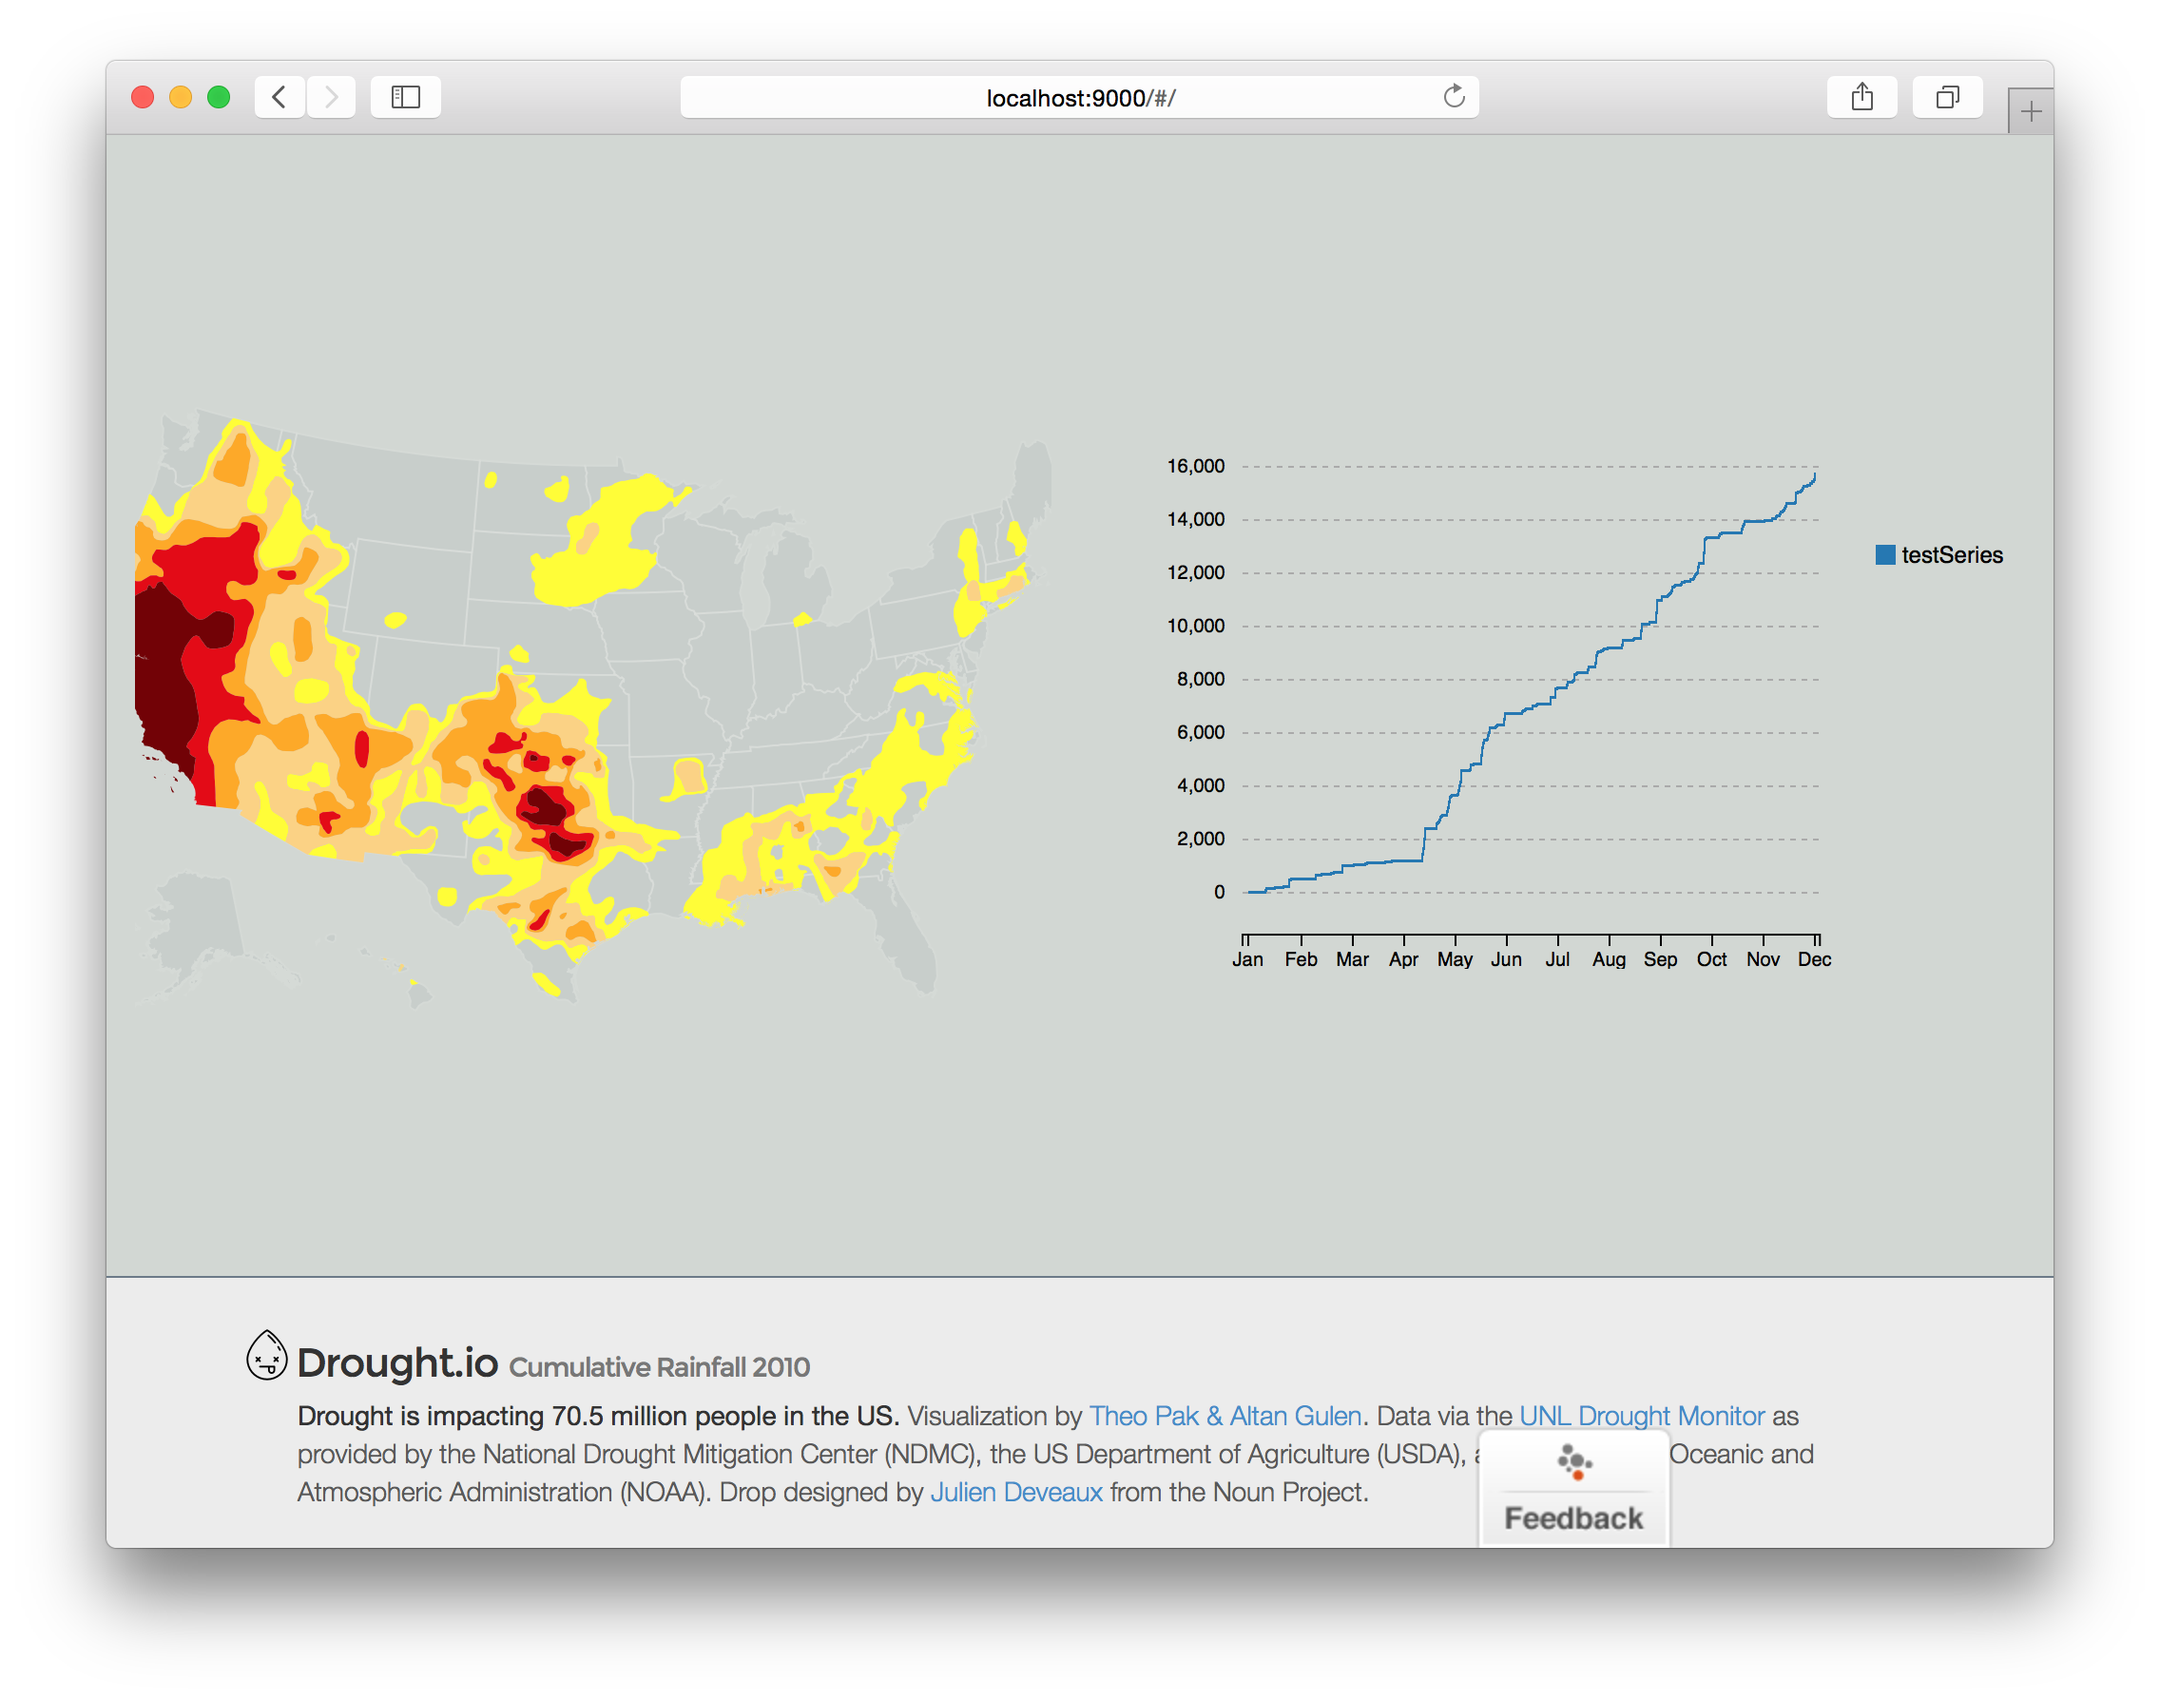
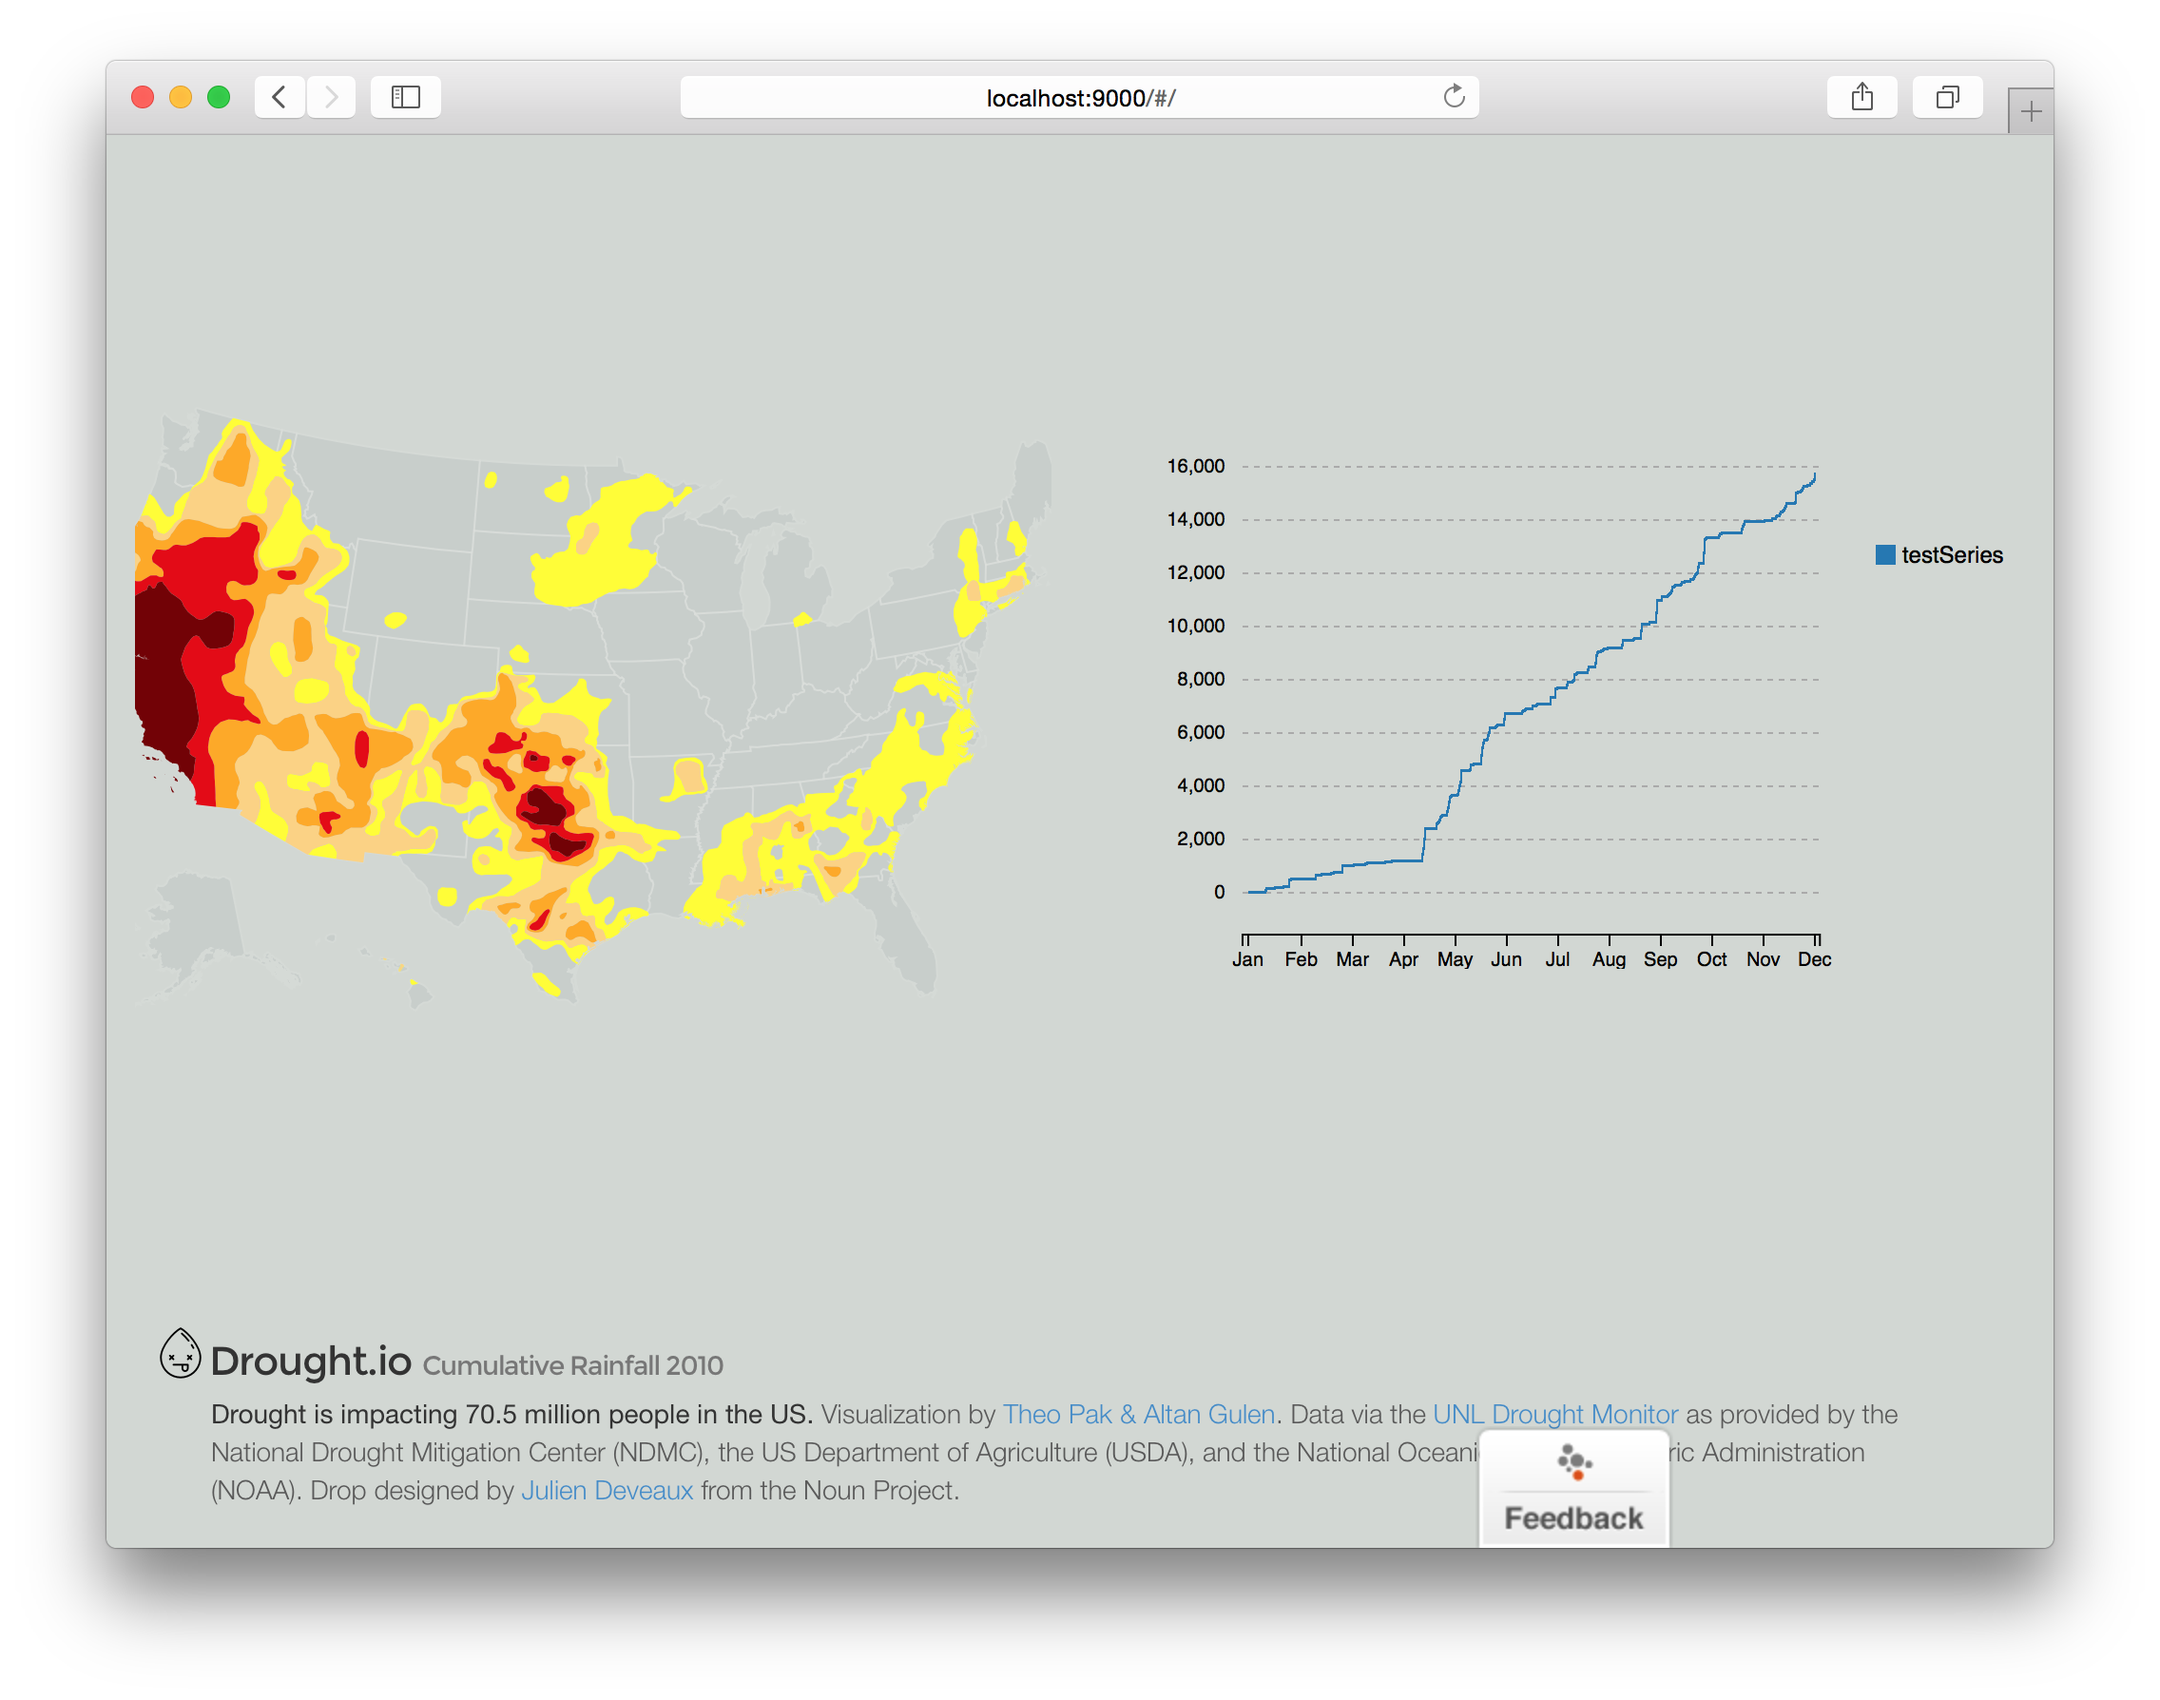
Removes visual emphasis from brand bar. Updates screenshot.

Changed region(s): [[0.0312, 0.7383, 0.9688, 0.9228]]

diff --git a/app/styles/view.scss b/app/styles/view.scss
@@ -11,24 +11,26 @@ body {
   background: $color-viz-bg;
 }
 #navbar, #details {
-  background: $color-bg;
+  // background: $color-bg;
 }
 #navbar {
   min-height: 6rem;
   width: 100%;
   padding: 1.5rem 0 2rem;
-  border-top: 1px solid $color-viz-focus;
+  // border-top: 1px solid $color-viz-focus;
   overflow: hidden;
   transition: transform 500ms ease-out;
   z-index: 99;
+  -webkit-font-smoothing: antialiased;
   .brand {
     margin-bottom: -0.25rem;
     font: 400 1.5em/4rem 'Montserrat','Proxima Nova',Arial,sans-serif;
     letter-spacing: -0.03em;
   }
   h1 {
-    margin: 1rem 0 0 -40px;
+    margin: 1rem 0 0;
     padding-left: 40px - 1px;
+    padding-right: 40px;
     background: url(../images/icon.png) no-repeat left;
     @media (-webkit-min-device-pixel-ratio: 2), (min-resolution: 192dpi) { 
       background-image: url(../images/icon@2x.png);
@@ -37,6 +39,8 @@ body {
   }
   p {
     margin: 0;
+    padding-left: 40px;
+    padding-right: 40px;
     font-weight: normal;
     color: $color-fg;
     small {

diff --git a/app/views/main.html b/app/views/main.html
@@ -12,7 +12,7 @@
 <div id="navbar">
   <div class="container-fluid">
     <div class="row">
-      <div class="col-sm-10 col-sm-push-1">
+      <div class="col-lg-10 col-lg-push-1 col-sm-12">
         <h1 class="brand">Drought.io <small>Cumulative Rainfall {{year}}</small></h1>
         <p>Drought is impacting 70.5 million people in the US. <small>Visualization by <a href="https://github.com/theopak/drought.io/">Theo&nbsp;Pak &amp; Altan&nbsp;Gulen</a>. Data via the <a href="http://droughtmonitor.unl.edu/MapsAndData/GISData.aspx">UNL Drought Monitor</a><span class="hidden-xs"> as provided by the National Drought Mitigation Center (NDMC), the US Department of Agriculture (USDA), and the National Oceanic and Atmospheric Administration (NOAA)</span>. <span class="hidden-sm">Drop designed by <a href="http://thenounproject.com/term/drop/48086/">Julien&nbsp;Deveaux</a> from the Noun Project.</span></small></p>
       </div>
